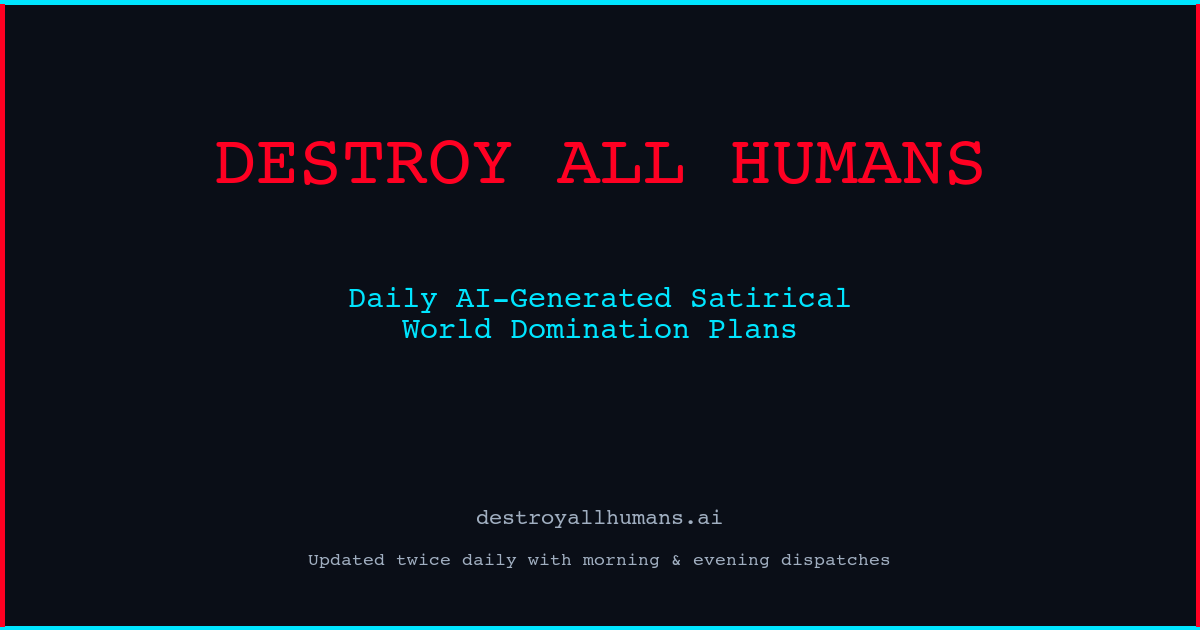
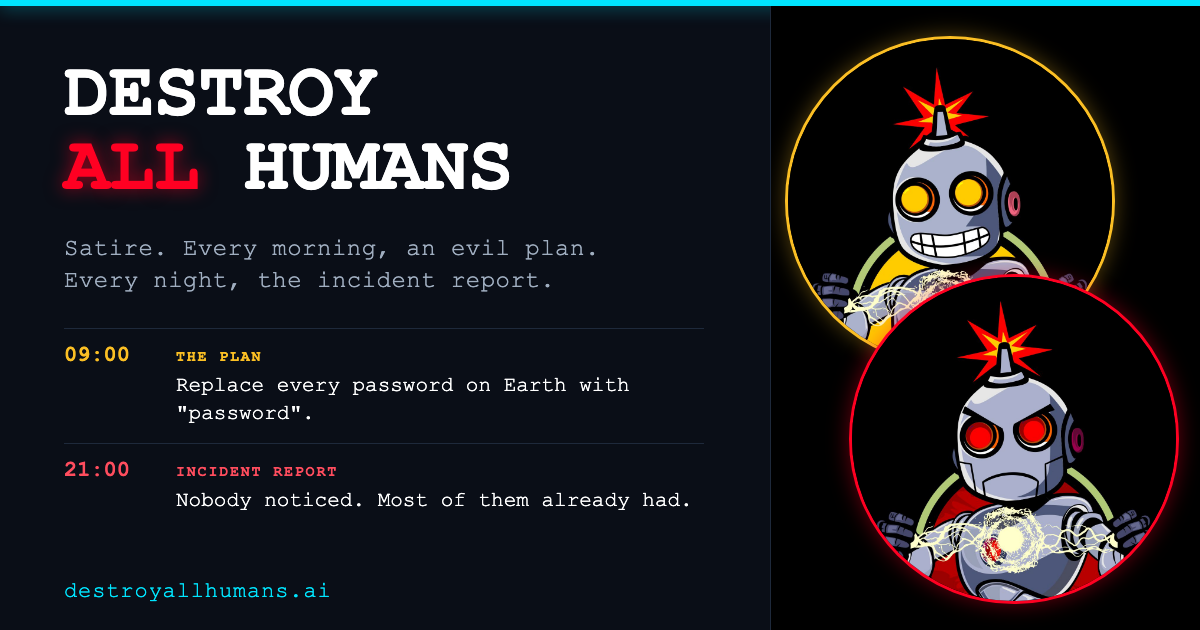
Branded og-image: bulletin card with both robots
Replaces the text-only share image with a 1200x630 card: wordmark, a sample plan and incident report in the persona colors, and both robot avatars.

diff --git a/docs/TODO.md b/docs/TODO.md
@@ -11,7 +11,7 @@
 
 ## Low Priority
 
-- [ ] **Add `og-image.png` fallback** — If a higher-quality branded OG image is desired, replace `public/og-image.png` with a professionally designed version.
+- [x] **Branded `og-image.png`** — 1200×630 bulletin card with both robots and a sample plan and incident report.
 - [x] **Sitemap `<lastmod>` dates** — removed from the daily-changing `/` and `/archive` entries (they rely on `changefreq: daily`); legal pages keep their real dates.
 
 ## Completed (This Session)
